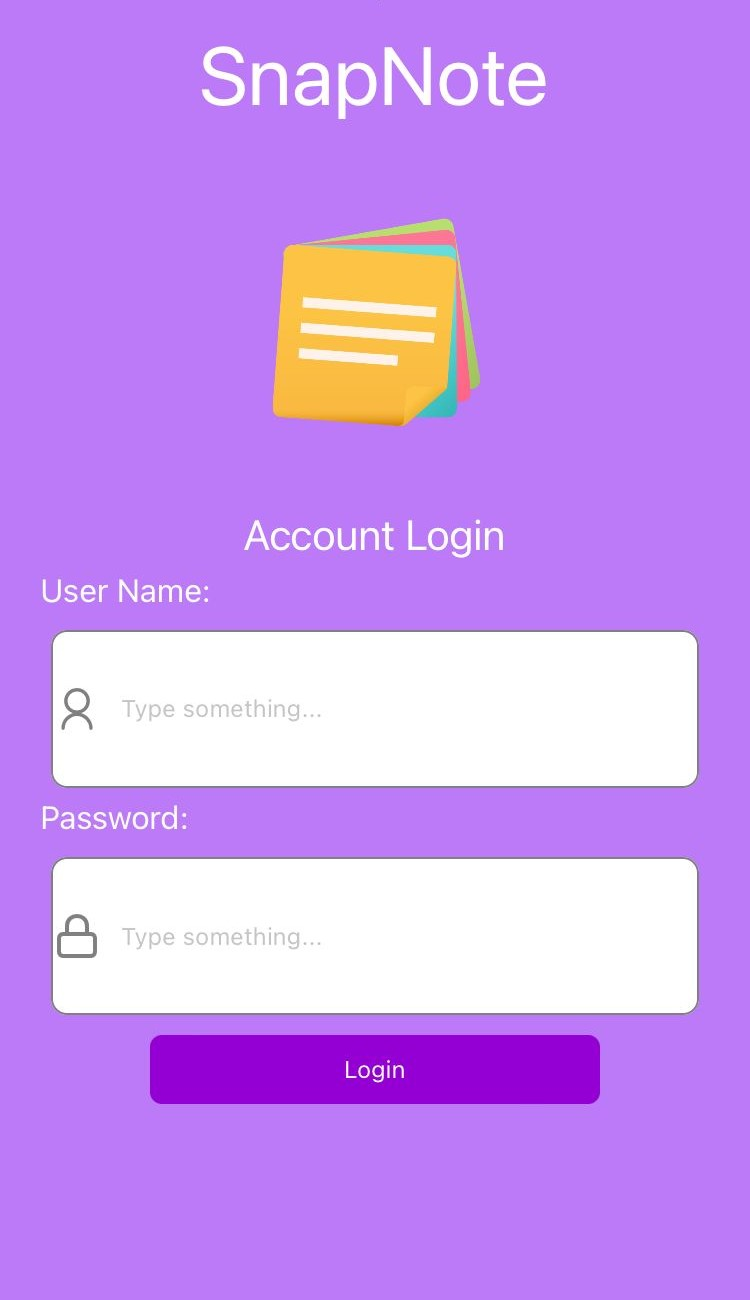
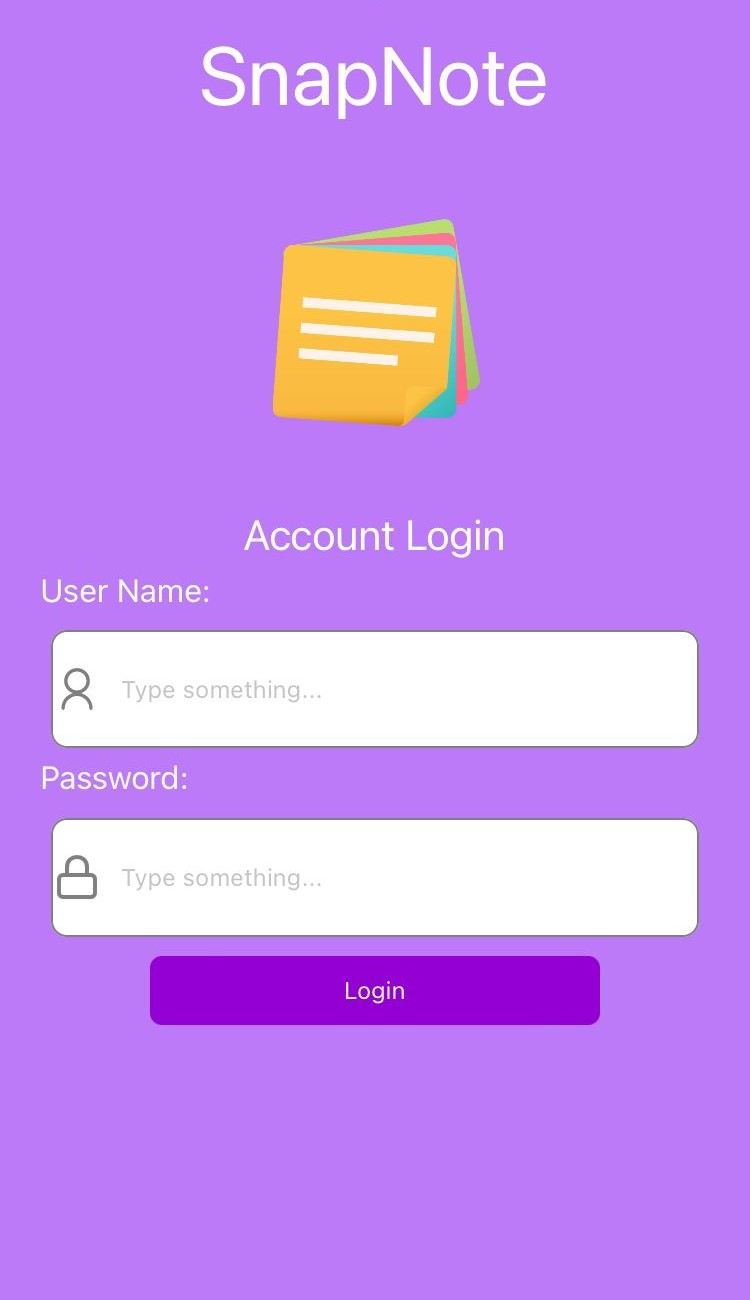
fix screenshots

Changed region(s): [[0.0307, 0.4923, 0.9507, 0.8615], [0.5213, 0.1538, 0.6133, 0.1846], [0.6133, 0.2462, 0.644, 0.3077]]

diff --git a/screens/LoginScreen/LoginScreenStyles.js b/screens/LoginScreen/LoginScreenStyles.js
@@ -1,102 +1,101 @@
-import { StyleSheet } from 'react-native';
+import { StyleSheet } from "react-native";
 
 const styles = StyleSheet.create({
   container: {
     flex: 1,
-    backgroundColor: '#BC7AF9',
-    alignItems:'center',
+    backgroundColor: "#BC7AF9",
+    alignItems: "center",
   },
 
   //animationContainer
-  animationContainer:{
-    width:'99%',
-    height:'40%',
-    alignItems: 'center',
+  animationContainer: {
+    width: "99%",
+    height: "40%",
+    alignItems: "center",
   },
 
   headerText: {
-    color: 'white',
+    color: "white",
     fontSize: 50,
     marginTop: 30,
-    alignSelf: 'center',
+    alignSelf: "center",
   },
 
-  lottieArchive:{
+  lottieArchive: {
     width: 300,
-    height:200,
+    height: 200,
   },
 
   info: {
-    color: 'white',
+    color: "white",
     fontSize: 25,
   },
 
   //formularyContainer
-  formularyContainer:{
-    width:'100%',
-    flex:1,
-    alignItems:'center',
-    marginTop:5,
+  formularyContainer: {
+    width: "100%",
+    flex: 1,
+    alignItems: "center",
+    marginTop: 5,
   },
 
-  textForm:{
-    color:'white',
-    fontSize:20,
-    textAlign:'left',
-    alignSelf: 'flex-start',
-    marginLeft:20,
-    marginTop:5,
+  textForm: {
+    color: "white",
+    fontSize: 20,
+    textAlign: "left",
+    alignSelf: "flex-start",
+    marginLeft: 20,
+    marginTop: 5,
   },
 
-  userNameContainer:{
-    flexDirection:'row',
-    backgroundColor:'white',
-    justifyContent:'center',
-    alignItems:'center',
-    borderColor: 'gray', 
+  userNameContainer: {
+    flexDirection: "row",
+    backgroundColor: "white",
+    justifyContent: "center",
+    alignItems: "center",
+    borderColor: "gray",
     borderWidth: 1,
     borderRadius: 8,
-    height: '20%',
-    marginTop:10,
+    height: "15%",
+    marginTop: 10,
   },
 
-  passwordContainer:{
-    flexDirection:'row',
-    backgroundColor:'white',
-    justifyContent:'center',
-    alignItems:'center',
-    borderColor: 'gray', 
+  passwordContainer: {
+    flexDirection: "row",
+    backgroundColor: "white",
+    justifyContent: "center",
+    alignItems: "center",
+    borderColor: "gray",
     borderWidth: 1,
     borderRadius: 8,
-    height: '20%',
-    marginTop:10,
+    height: "15%",
+    marginTop: 10,
   },
 
-  inputEmail:{
-    height: '90%',
-    width:'80%',
+  inputEmail: {
+    height: "90%",
+    width: "80%",
     padding: 10,
   },
 
-  inputPassword:{
-    height: '90%',
-    width:'80%',
+  inputPassword: {
+    height: "90%",
+    width: "80%",
     padding: 10,
   },
 
-  bottomLogin:{
-    backgroundColor: '#9400d3',
-    width:'60%', 
-    padding: 10, 
-    borderRadius: 6, 
-    marginTop:10,
+  bottomLogin: {
+    backgroundColor: "#9400d3",
+    width: "60%",
+    padding: 10,
+    borderRadius: 6,
+    marginTop: 10,
   },
 
-  bottomText:{
-    color: 'white', 
-    textAlign: 'center',
-  }, 
-
+  bottomText: {
+    color: "white",
+    textAlign: "center",
+  },
 });
 
 export default styles;
